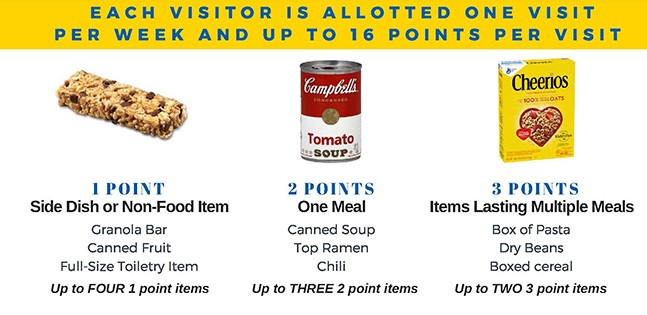
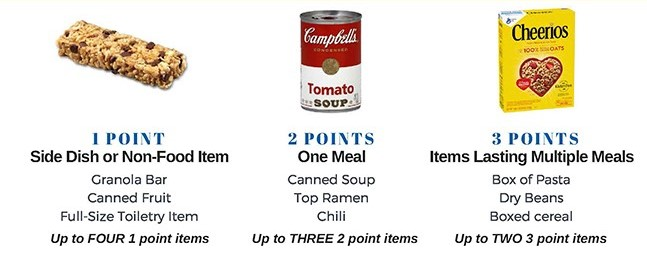
added How does it work section in home page

diff --git a/restrucured/homepage.php b/restrucured/homepage.php
@@ -24,6 +24,21 @@
 </section>
 
 
+<div class="container">
+    <div class="product-item">
+        <div class="d-flex product-item-title">
+            <div class="d-flex mr-auto bg-faded p-5 rounded">
+                <h2 class="section-heading mb-0"><span class="section-heading-lower">How does it work? </span>
+                <span class="section-heading-upper">Each visitor is allotted one visit per week and up to 16 points per visit</span>
+                <img src="./assets/img/points.jpg"/>
+                </h2>
+            <img class="img-fluid d-flex mx-auto product-item-img mb-3 mb-lg-0 rounded" src="./assets/img/stockedShelf.jpg" style="width: 500px;" />
+            </div>
+         </div>
+    </div>
+</div>
+
+<br><br><br>
 
 <?php
     include('skel/footer.php');
